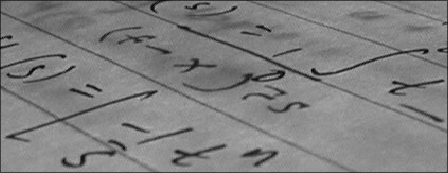
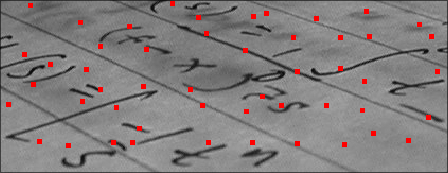
add buckets and feature caps

diff --git a/app/src/main/java/org/vapor/App.java b/app/src/main/java/org/vapor/App.java
@@ -3,9 +3,55 @@ package org.vapor;
 import javax.imageio.ImageIO;
 import java.awt.image.BufferedImage;
 import java.awt.Color;
+import java.util.ArrayList;
+import java.util.Comparator;
 import java.io.File;
 import java.io.IOException;
 import java.io.InputStream;
+
+/**
+ * Represents a feature in an image with its strength value and coordinates.
+ */
+class Feature {
+    /** The strength value of the feature. */
+    double value;
+
+    /** The x-coordinate of the feature in the image. */
+    int x;
+
+    /** The y-coordinate of the feature in the image. */
+    int y;
+
+    /**
+     * Constructs a new Feature with the specified strength value and coordinates.
+     *
+     * @param value The strength value of the feature.
+     * @param x The x-coordinate of the feature in the image.
+     * @param y The y-coordinate of the feature in the image.
+     */
+    Feature(double value, int x, int y) {
+        this.value = value;
+        this.x = x;
+        this.y = y;
+    }
+}
+
+/**
+ * Comparator for sorting Feature objects based on their strength value in descending order.
+ */
+class SortStrength implements Comparator<Feature> {
+    /**
+     * Compares two Feature objects based on their strength values.
+     *
+     * @param a the first Feature to be compared.
+     * @param b the second Feature to be compared.
+     * @return a negative integer, zero, or a positive integer as the first argument
+     *         is less than, equal to, or greater than the second.
+     */
+    public int compare(Feature a, Feature b) {
+        return Double.compare(b.value, a.value);
+    }
+}
 
 public class App {
     static int[][] ixx;
@@ -16,11 +62,14 @@ public class App {
     static int[] gxy;
     static double[][] s;
 
-    /// The row count, which starts at 1 to avoid the first row of the image.
+    /** The row count, which starts at 1 to avoid the first row of the image. */
     static int row = 1;
 
-    /// The constant k in the Harris corner response function.
+    /** The constant k in the Harris corner response function. */
     static final double k = 0.06;
+
+    /** The cap on the number of features in each of the 50 buckets. */
+    static final int bucketCap = 100;
 
     /**
      * Converts a color pixel value to a grayscale intensity.
@@ -122,7 +171,6 @@ public class App {
             gxy[i] += gxy[i + 3] << 2;
             gxy[i] += gxy[i + 4];
         }
-
     }
 
     /*
@@ -180,9 +228,55 @@ public class App {
 
         // loop to calculate derivatives and strengths
         for (int i = 5; i < height - 6; i++) {
-            updateDerivatives(grayImage);
             updateGaussian();
             updateStrength();
+            updateDerivatives(grayImage);
+        }
+
+        // initialize list of features
+        ArrayList<ArrayList<Feature>> features = new ArrayList<>();
+        for (int i = 0; i < 50; i++) {
+            features.add(new ArrayList<Feature>());
+        }
+
+        // use non-max suppression to declare features, split into 50 buckets
+        int rowBound = s.length / 5;
+        int colBound = s[0].length / 10;
+        for (int i = 2; i < s.length - 2; i++) {
+            int rowBucket = (int) (i / rowBound) > 4 ? 4 : (int) (i / rowBound); 
+            for (int j = 2; j < s[0].length - 2; j++) {
+                double v = s[i][j];
+                
+                // if strength is greater than all other strengths in a 5x5 window
+                if (v > s[i-2][j-2] && v > s[i-2][j-1] && v > s[i-2][j] && v > s[i-2][j+1] && v > s[i-2][j+2] &&
+                    v > s[i-1][j-2] && v > s[i-1][j-1] && v > s[i-1][j] && v > s[i-1][j+1] && v > s[i-1][j+2] &&
+                    v > s[i][j-2] && v > s[i][j-1] && v > s[i][j+1] && v > s[i][j+2] &&
+                    v > s[i+1][j-2] && v > s[i+1][j-1] && v > s[i+1][j] && v > s[i+1][j+1] && v > s[i+1][j+2] &&
+                    v > s[i+2][j-2] && v > s[i+2][j-1] && v > s[i+2][j] && v > s[i+2][j+1] && v > s[i+2][j+2]) {
+                    int colBucket = (int) (j / colBound) > 9 ? 9 : (int) (j / colBound);
+                    int bucket = rowBucket * 10 + colBucket;
+                    features.get(bucket).add(new Feature(v, i, j));
+                    j += 2;
+                }
+            }
+        }
+
+        // sort features in each bucket by strength and use top features
+        for (int i = 0; i < 50; i++) {
+            features.get(i).sort(new SortStrength());
+            int top = features.get(i).size() > bucketCap ? bucketCap : features.get(i).size();
+            features.set(i, new ArrayList<Feature>(features.get(i).subList(0, top)));
+        }
+
+        // draw features on image
+        for (int i = 0; i < 50; i++) {
+            for (Feature f : features.get(i)) {
+                for (int j = f.x - 2; j <= f.x + 2; j++) {
+                    for (int k = f.y - 2; k <= f.y + 2; k++) {
+                        image.setRGB(k, j, Color.RED.getRGB());
+                    }
+                }
+            }
         }
 
         // save new grayscale image
